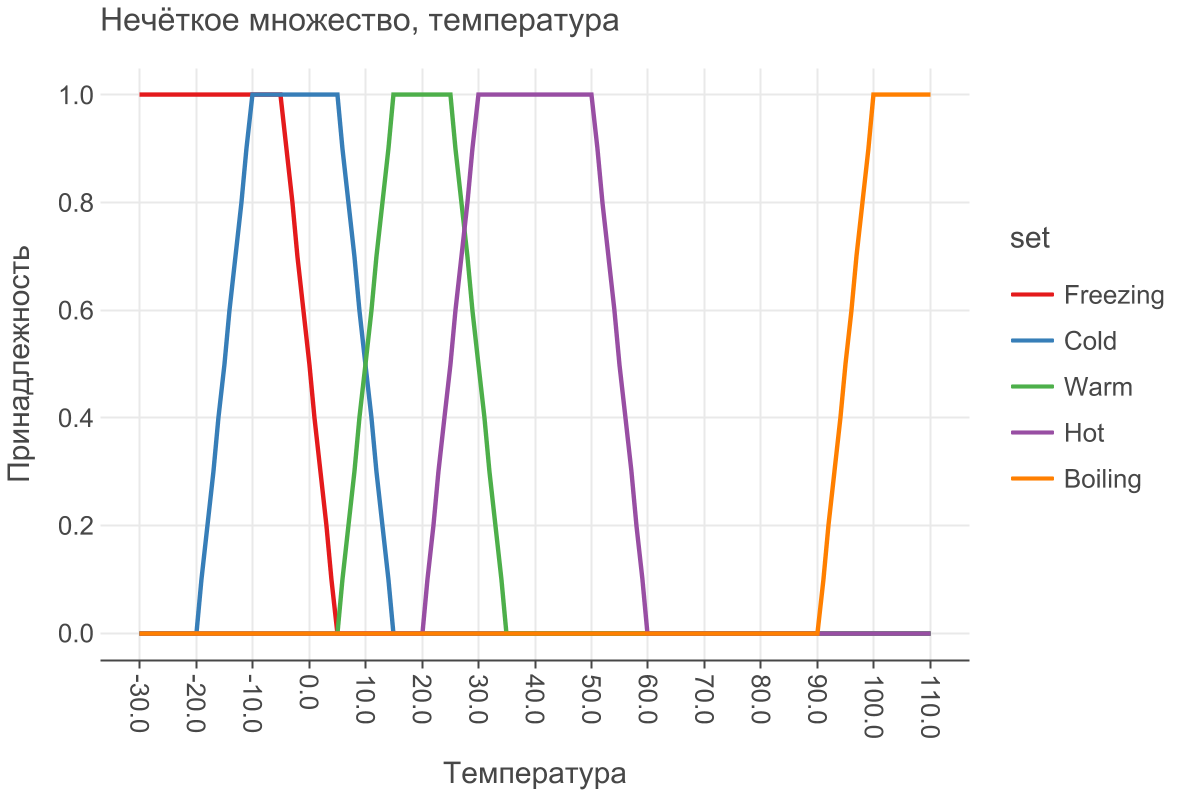
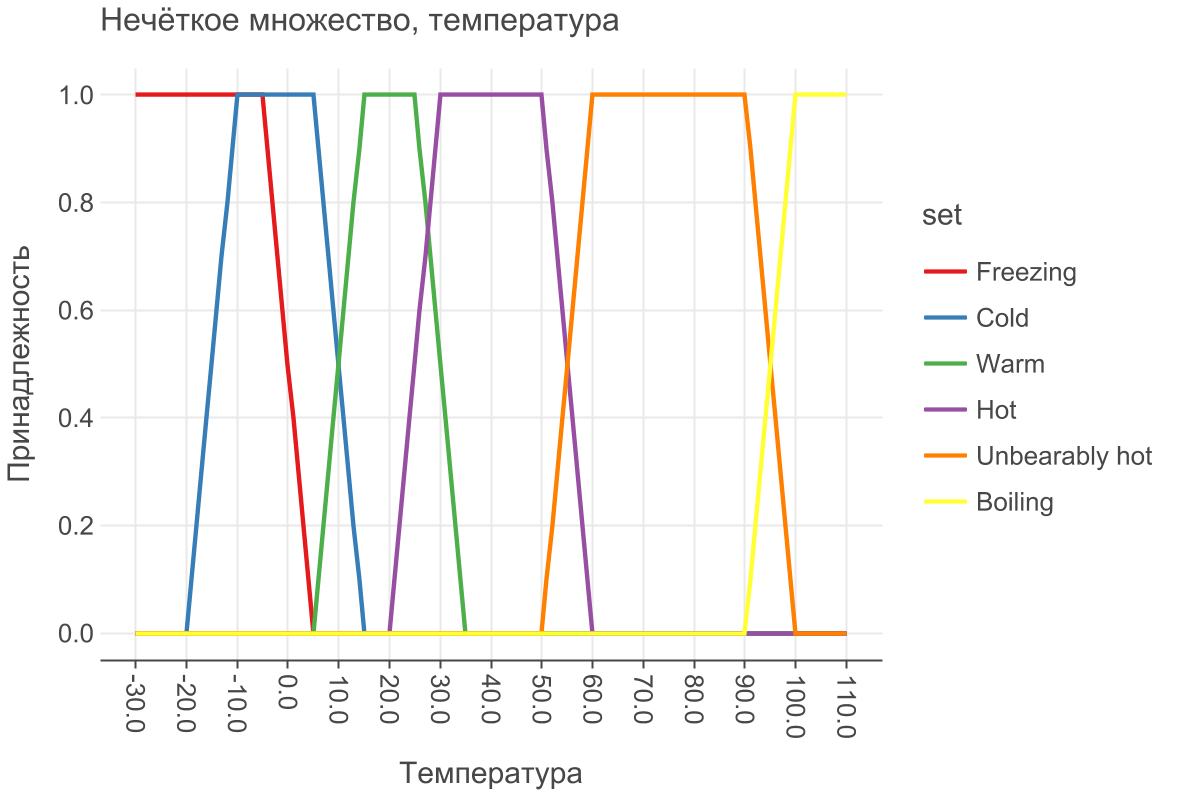
Also plot unbearablyHot temperature set

diff --git a/src/main/kotlin/dev/argraur/fuzzy/Main.kt b/src/main/kotlin/dev/argraur/fuzzy/Main.kt
@@ -90,6 +90,12 @@ fun main(args: Array<String>) {
         "set" to List(141) { "Hot" }
     )
 
+    val unbearablyHot = mapOf(
+        "Температура" to (-30..110).toList(),
+        "Принадлежность" to (-30..110).map { unbearablyHotTemperatureFuzzySet.contains(it.toDouble()) },
+        "set" to List(141) { "Unbearably hot" }
+    )
+
     val boiling = mapOf(
         "Температура" to (-30..110).toList(),
         "Принадлежность" to (-30..110).map { boilingTemperatureFuzzySet.contains(it.toDouble()) },
@@ -101,6 +107,7 @@ fun main(args: Array<String>) {
             geomLine(data = cold, size = 1.0) { x = "Температура"; y = "Принадлежность"; color = "set" } +
             geomLine(data = warm, size = 1.0) { x = "Температура"; y = "Принадлежность"; color = "set" } +
             geomLine(data = hot, size = 1.0) { x = "Температура"; y = "Принадлежность"; color = "set" } +
+            geomLine(data = unbearablyHot, size = 1.0) { x = "Температура"; y = "Принадлежность"; color = "set" } +
             geomLine(data = boiling, size = 1.0) { x = "Температура"; y = "Принадлежность"; color = "set" } +
             ggtitle("Нечёткое множество, температура") +
             scaleXContinuous(breaks = (-30..110 step 10).toList()) +
